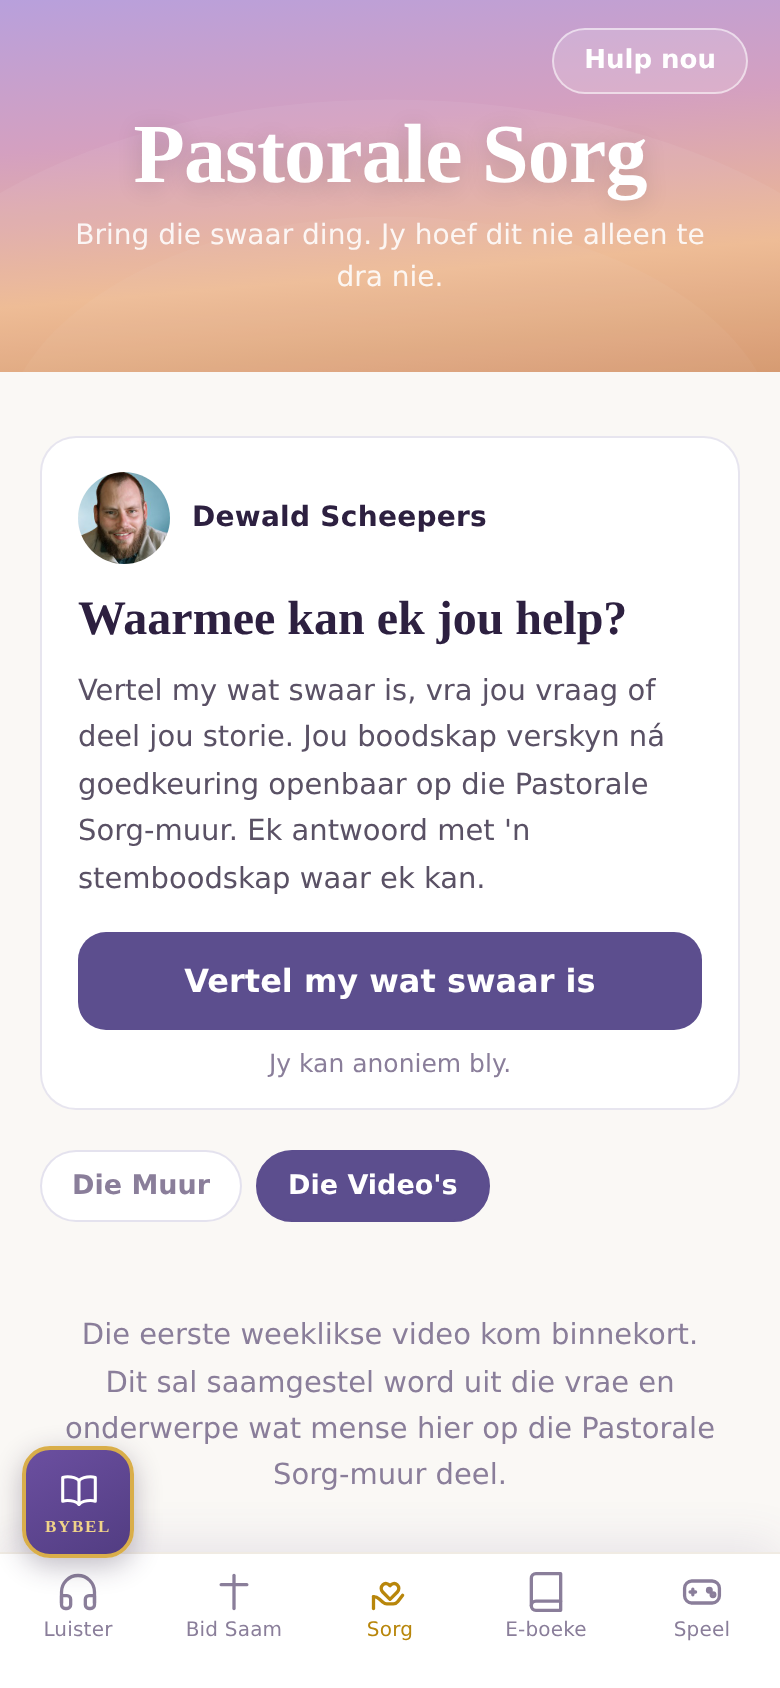
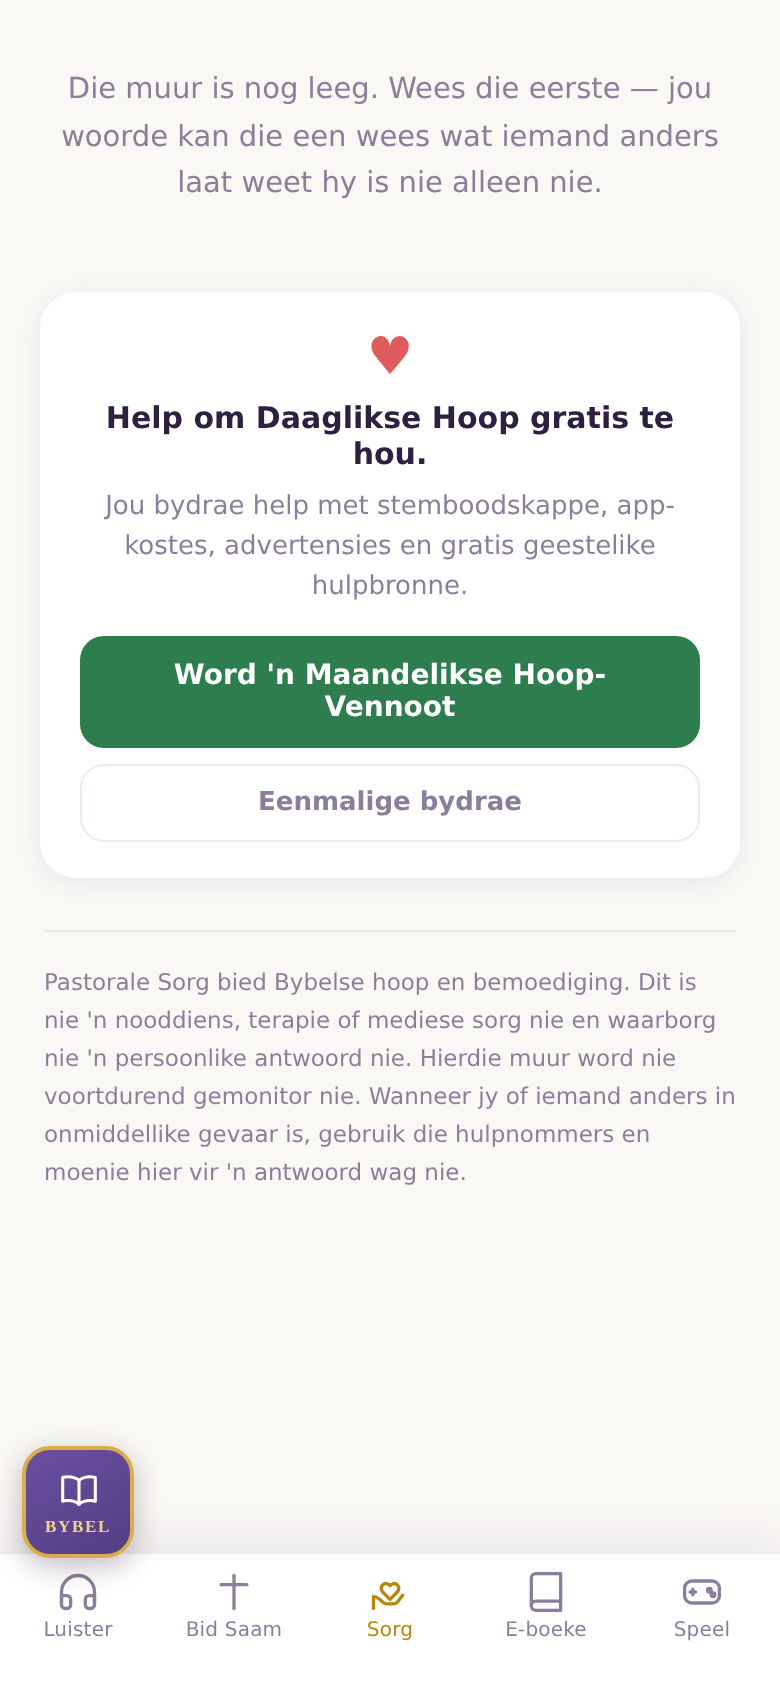
Op die muur kom net Dewald se antwoorde
Ek het "Terwyl jy wag" ook op die muur gesit. Dit was verkeerd en Dewald het
dit reguit gestel: die muur is sy antwoorde, nie 'n plek waar die res van die
app ingedra word nie. Iemand wat daar lees, moet die mens se woorde sien en
dan sy stem — nie 'n biblioteek nie.

Weg van die muur af: die stemnotas, die outomatiese video-valpad, en die
video wat 'n mens by 'n plasing kon aanheg. Die veld in die keurpaneel is ook
weg, want 'n veld wat nerens uitkom nie is erger as geen veld nie. Die
bediener stoor dit nie meer nie en die openbare muur gee dit nie meer terug
nie.

"Terwyl jy wag" bly presies waar dit hoort: die skerm direk na 'n indiening,
waar iemand werklik wag. Drie stemnotas, 'n video as daar een is, en een
gratis e-boek.

Nagegaan: agt kaarte met allerhande data, en daar is nul video's, nul
stemnotas en nul e-boeke op enige van hulle. Net die woorde, die antwoord
waar daar een is, en die saamdra.

Claude-Session: https://claude.ai/code/session_01S2gekPUJooPMvPKjFjtUcr

diff --git a/src/components/SorgPlasing.jsx b/src/components/SorgPlasing.jsx
@@ -19,8 +19,16 @@
    dieselfde kaart, want dit is die enigste manier waarop 'n mens sien dat
    daar op sy ding geantwoord is.
 
-   Is daar nog nie 'n antwoord nie, dra die plasing 'n VIDEO. Nooit net
-   iemand se pyn alleen op 'n skerm nie.
+   OP DIE MUUR KOM NET DEWALD SE ANTWOORDE. Niks anders nie.
+
+   Hier was 'n rukkie 'n video by elke plasing sonder 'n antwoord, en daarna
+   ook 'n stemnota uit Luister. Dewald het dit reguit gestop: die muur is sy
+   antwoorde, nie 'n plek waar die res van die app ingedra word nie. Iemand
+   wat hier lees, moet die mens se woorde sien en dan sy stem — nie 'n
+   biblioteek nie.
+
+   Die "Terwyl jy wag"-lys bestaan nog, maar net op EEN plek: die skerm direk
+   na 'n indiening, waar iemand werklik wag. Sien `SorgWag`.
 
    Geen kommentaar nie. Geen vreemdeling se raad onder 'n vrou se beskrywing
    van haar huwelik nie.
@@ -31,9 +39,6 @@
 import { useState } from 'react'
 import { onderwerpNaam } from '../data/sorgOnderwerpe'
 import { draSaam, draSaamReeds } from '../data/sorgMuur'
-import { hoopVir } from '../data/sorgVideos'
-import SorgVideo from './SorgVideo'
-import SorgWag from './SorgWag'
 import SorgDeelSteun from './SorgDeelSteun'
 import './SorgPlasing.css'
 
@@ -78,33 +83,11 @@ function egteAntwoord(a) {
   return null
 }
 
-export default function SorgPlasing({ plasing, videos = [], notas = null }) {
+export default function SorgPlasing({ plasing }) {
   const [saam, setSaam] = useState(plasing.saam || 0)
   const [gedra, setGedra] = useState(() => draSaamReeds(plasing.id))
 
   const antwoord = egteAntwoord(plasing.antwoord)
-
-  /* ── Elke plasing moet iets dra wat help ──
-
-     Dit is die reel waarop die hele muur staan: nooit net iemand se pyn
-     alleen op 'n skerm nie. Dit was gebreek. Die video by 'n plasing is
-     opsioneel in die keurpaneel, dus was 'n plasing sonder antwoord EN
-     sonder 'n gekose video heeltemal kaal — en dit is die gewone geval,
-     want Dewald antwoord nie binne die eerste uur nie.
-
-     Nou val ons terug op die biblioteek: 'n video wat by die onderwerp pas,
-     anders die bree een, anders enige. Presies dieselfde valpad as die een
-     wat iemand kry direk nadat hy gestuur het. */
-  const gekies = plasing.videoId
-    ? (videos.find(v => v.videoId === plasing.videoId) ||
-       { id: plasing.id + '-v', videoId: plasing.videoId, titel: 'Iets wat dalk nou kan help' })
-    : null
-
-  const terugval = !antwoord && !gekies && videos.length
-    ? (hoopVir(plasing.onderwerp, { videos, week: null }) || {}).video || null
-    : null
-
-  const video = gekies || terugval
 
   async function dra() {
     if (gedra) return
@@ -153,30 +136,6 @@ export default function SorgPlasing({ plasing, videos = [], notas = null }) {
           <SorgDeelSteun soort="plasing" id={plasing.id} />
         </div>
       )}
-
-      {/* ── Is daar nog nie 'n antwoord nie, dan iets wat wel help ──
-
-          Op die MUUR bly dit by een ding. Die volle "Terwyl jy wag"-lys hoort
-          op die skerm na 'n indiening, waar iemand wag en tyd het. Sit 'n
-          mens hom onder elke plasing, word elke kaart 'n spyskaart en dan
-          lees niemand meer die mens se woorde nie.
-
-          Is daar glad geen video nie — en op die oomblik is daar nul — val
-          dit terug op EEN stemnota. Nooit net iemand se pyn alleen nie. */}
-      {!antwoord && (video ? (
-        <div className="sp-hoop">
-          <p className="sp-hoop-kop">Iets wat jou dalk nou kan help</p>
-          <SorgVideo video={video} />
-          <SorgDeelSteun soort="video" id={video.videoId} titel={video.titel} />
-        </div>
-      ) : (
-        /* GEEN omhulsel hier nie. Dit was 'n <div className="sp-hoop"> om
-           SorgWag, en wanneer SorgWag niks het om te wys nie, gee hy null
-           terug — maar die omhulsel het bly staan met sy marge. 'n Leë blok
-           onder iemand se woorde lyk soos iets wat nie gelaai het nie.
-           SorgWag dra sy eie spasie. */
-        <SorgWag onderwerp={plasing.onderwerp} notas={notas} kort />
-      ))}
 
       {/* ── Geselskap, nie 'n punt nie ── */}
       <button className={`sp-saam${gedra ? ' gedra' : ''}`} onClick={dra} disabled={gedra}>

diff --git a/src/screens/SorgKeur.jsx b/src/screens/SorgKeur.jsx
@@ -43,7 +43,6 @@ export default function SorgKeur({ geheim }) {
   const [hopie, setHopie] = useState(null)
   const [oop, setOop] = useState(null)        // die id wat oop is
   const [teks, setTeks] = useState('')
-  const [videoId, setVideoId] = useState('')
   const [besig, setBesig] = useState(false)
   const [boodskap, setBoodskap] = useState(null)
 
@@ -95,7 +94,6 @@ export default function SorgKeur({ geheim }) {
   function maakOop(b) {
     setOop(b.id)
     setTeks(b.teks || '')
-    setVideoId('')
     setBoodskap(null)
   }
 
@@ -116,7 +114,6 @@ export default function SorgKeur({ geheim }) {
       onderwerp: b.onderwerp,
       anoniem: !b.naam,
       naam: b.naam,
-      videoId,
       tochPlaas,
     })
     if (d && d.ok) { setOop(null); setBoodskap({ goed: 'Op die muur.' }) }
@@ -207,17 +204,6 @@ export default function SorgKeur({ geheim }) {
               <div className="admin-books-note">
                 Dít is wat op die muur gaan wys. Haal name, dorpe en nommers
                 uit. Die rou weergawe bly hier en gaan nêrens heen nie.
-              </div>
-
-              <input
-                className="sk-video"
-                value={videoId}
-                onChange={e => setVideoId(e.target.value)}
-                placeholder="YouTube-skakel wat by hierdie plasing hoort (opsioneel)"
-              />
-              <div className="admin-books-note">
-                Terwyl daar nog nie 'n antwoord is nie, dra die plasing hierdie
-                video. Nooit net iemand se pyn alleen op 'n skerm nie.
               </div>
 
               <div className="sk-knoppe">

diff --git a/src/screens/Sorg.jsx b/src/screens/Sorg.jsx
@@ -44,7 +44,6 @@ import {
   haalVideos, weekVideo, vandagSeWoord, merkWoordGesien, volgensBehoefte,
 } from '../data/sorgVideos'
 import { haalMuur } from '../data/sorgMuur'
-import { haalNotas } from '../data/sorgWag'
 import { leesSorgSkakel } from '../data/sorgDeel'
 import { NOODNOMMERS, GRENSSIN } from '../data/sorgNommers'
 import './Sorg.css'
@@ -86,7 +85,6 @@ export default function Sorg() {
   const [data, setData] = useState(null)      // null = besig
   const [woord, setWoord] = useState(null)
   const [muur, setMuur] = useState(null)      // null = besig
-  const [notas, setNotas] = useState(null)   // Luister se stemnotas
 
   useEffect(() => {
     let lewendig = true
@@ -96,8 +94,6 @@ export default function Sorg() {
       setWoord(vandagSeWoord(d))
     })
     haalMuur().then(p => { if (lewendig) setMuur(p) })
-    /* Een keer vir die hele blad, nie een keer per kaart nie. */
-    haalNotas().then(n => { if (lewendig) setNotas(n) })
     return () => { lewendig = false }
   }, [])
 
@@ -265,7 +261,7 @@ export default function Sorg() {
                 Elke boodskap hier is deur 'n mens gelees en met toestemming
                 geplaas. Niks kom outomaties op hierdie muur nie.
               </p>
-              {plasings.map(p => <SorgPlasing key={p.id} plasing={p} videos={videos} notas={notas} />)}
+              {plasings.map(p => <SorgPlasing key={p.id} plasing={p} />)}
             </>
           )
         )}

diff --git a/src/components/SorgWag.jsx b/src/components/SorgWag.jsx
@@ -15,6 +15,11 @@
    Luister toe nie: hy is besig met iets, en 'n mens wat weggestuur word,
    kom nie terug nie.
 
+   DIT LOOP OP EEN PLEK: die skerm direk na 'n indiening. Dit was 'n rukkie
+   ook op die muur, en Dewald het dit reguit gestop — die muur is sy
+   antwoorde, nie 'n plek waar die res van die app ingedra word nie. Dit is
+   "terwyl jy wag", en 'n mens wag net nadat hy geskryf het.
+
    Geen prys, nooit. Net gratis boeke kom hier.
    ──────────────────────────────────────────────────────────── */
 

diff --git a/src/components/SorgPlasing.css b/src/components/SorgPlasing.css
@@ -76,24 +76,6 @@
   white-space: pre-wrap;
 }
 
-/* ── Wat daar is terwyl daar nog nie 'n antwoord is nie ── */
-.sp-hoop { margin-top: 14px; }
-
-.sp-hoop-kop {
-  margin: 0 0 8px;
-  font-family: var(--font-body);
-  font-size: 12.5px;
-  font-weight: 700;
-  color: var(--purple-dark, #5C4E8E);
-}
-
-/* Binne 'n plasing is die videokaart 'n stukkie van die kaart, nie 'n eie
-   kaart nie. */
-.sp-hoop .sv-kaart {
-  margin: 0;
-  border: 1px solid #E6E1EE;
-}
-
 /* ── Geselskap ──
    Een reaksie, en dit is nie 'n punt nie. Geen rangskikking, geen wedstryd. */
 .sp-saam {

diff --git a/docs/pastorale-sorg.md b/docs/pastorale-sorg.md
@@ -275,8 +275,8 @@ Dewald se antwoord sit **binne dieselfde kaart**, direk onder die persoon se
 woorde. Nie 'n aparte blad nie en nie 'n draad nie — dit is die enigste
 manier waarop iemand sien dat daar op SY ding geantwoord is.
 
-Is daar nog nie 'n antwoord nie, dra die plasing 'n **video**. Nooit net
-iemand se pyn alleen op 'n skerm nie.
+Is daar nog nie 'n antwoord nie, dra die plasing **niks anders** nie — net
+die mens se woorde. Die muur is Dewald se antwoorde.
 
 Die antwoord kom in drie vorme, en die stemnota word **in die keurpaneel
 self** gemaak — presies soos die stemnotas op Luister:
@@ -344,10 +344,14 @@ het eers net op VIDEO'S teruggeval — maar daar is nog nul Sorg-video's, dus
 was die valpad leeg en die kaarte kaal. Die app is intussen vol van goed wat
 werk.
 
-| Waar | Wat |
-|---|---|
-| Na 'n indiening | 'n video as daar een is, **drie stemnotas**, en een **gratis e-boek** |
-| Op 'n muurkaart sonder antwoord | 'n video, of anders **een** stemnota |
+**Dit loop op EEN plek: die skerm direk ná 'n indiening.** 'n Video as daar
+een is, **drie stemnotas**, en een **gratis e-boek**.
+
+Dit was 'n rukkie ook op die muur. Dewald het dit reguit gestop, en hy was
+reg: **op die muur kom net sy antwoorde.** Geen Daaglikse Hoop-stemnotas,
+geen video's, niks. Die muur is die mens se woorde en dan sy stem — nie 'n
+plek waar die res van die app ingedra word nie. Dit is "terwyl jy wag", en
+'n mens wag net nadat hy geskryf het.
 
 Die stemnotas kom regstreeks uit Luister se `notes` (klaar oop vir lees) en
 speel HIER, met 'n gewone speler. Ons stuur niemand na Luister toe nie — 'n
@@ -357,10 +361,6 @@ Hulle word by ONDERWERP gekies waar dit kan: die titel, die reeks en die
 skrifverwysing word teen 'n paar woorde getoets. Tref niks, kry hy die
 nuutstes. Dit is nie slim nie en dit hoef nie te wees nie — 'n stemnota van
 Dewald is nooit die verkeerde ding nie.
-
-Op die MUUR bly dit by een ding. Die volle lys hoort waar iemand wag en tyd
-het; onder elke plasing sou dit van elke kaart 'n spyskaart maak en dan lees
-niemand meer die mens se woorde nie.
 
 Die e-boek staan **laaste en klein**, en dit is **altyd gratis** — daar is 'n
 toets wat dit vashou. Iemand wat pas geskryf het dat hy nie meer wil lewe
